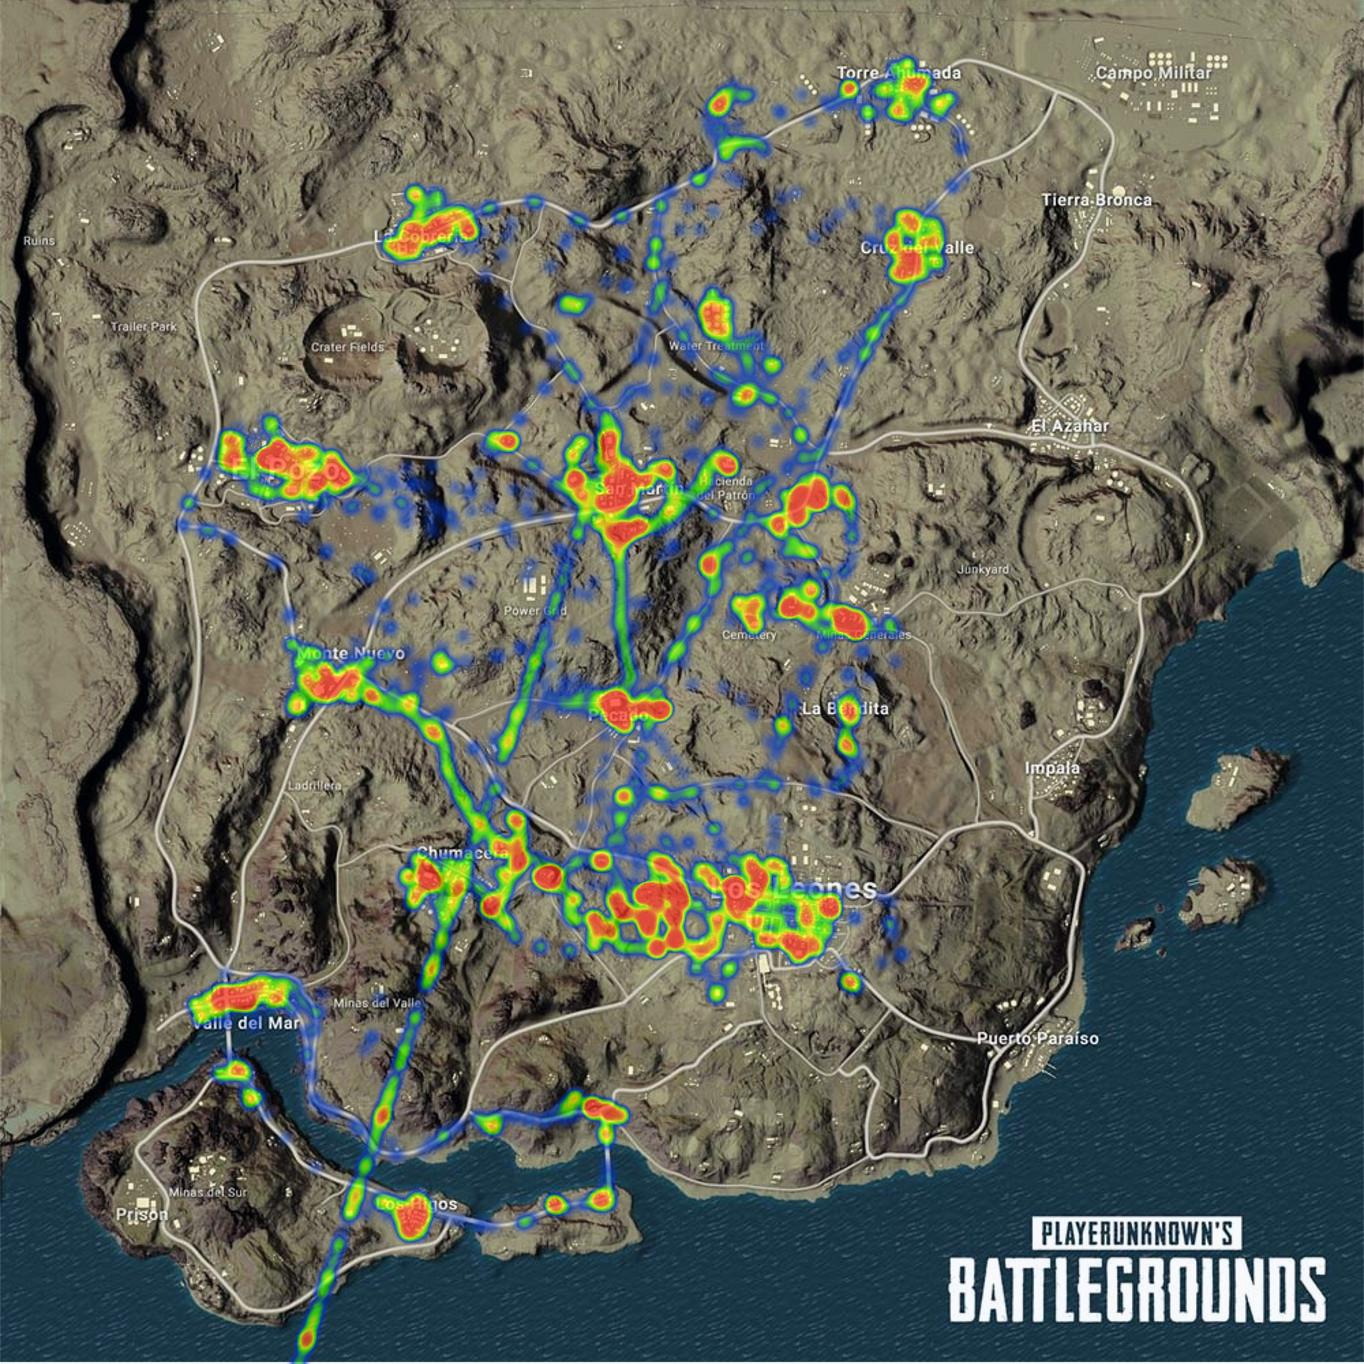
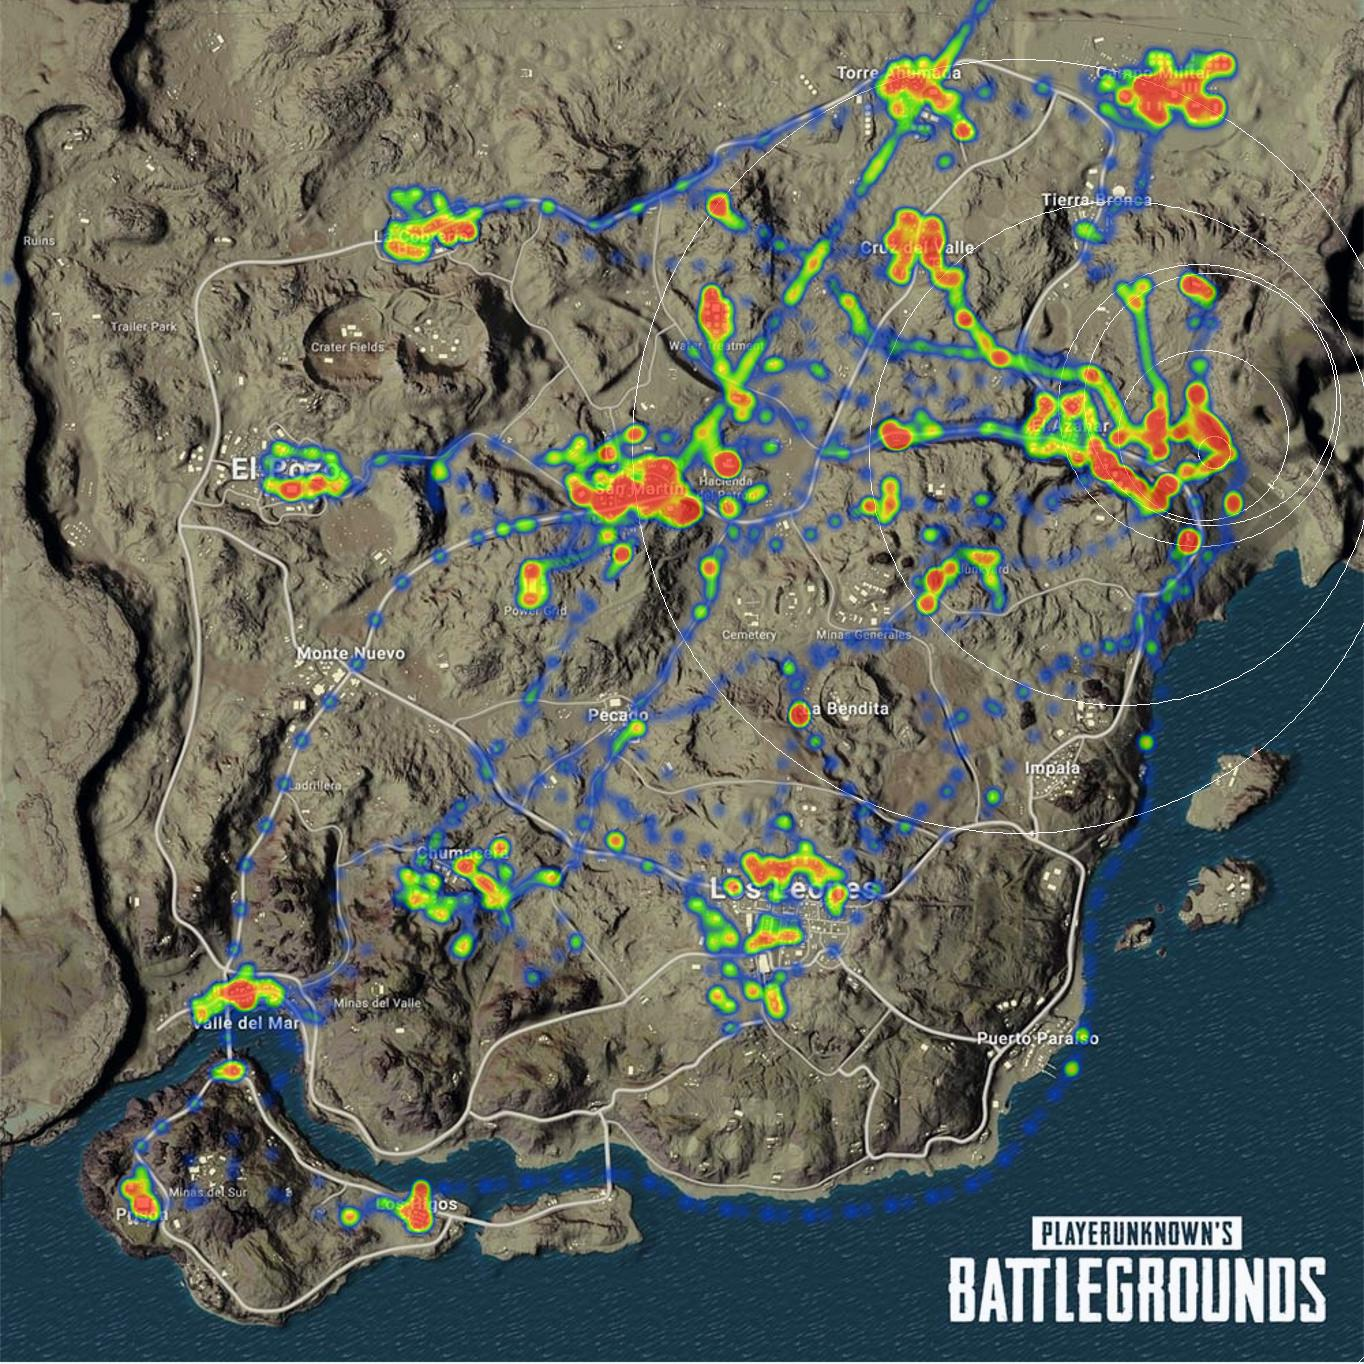
added circles drawing

diff --git a/pubgheatmap.py b/pubgheatmap.py
@@ -1,6 +1,6 @@
 from pubg_python import PUBG, Shard
 from heatmappy import Heatmapper
-from PIL import Image
+from PIL import Image, ImageDraw
 
 API_KEY = ''
 
@@ -9,8 +9,14 @@ MIRAMAR_MAP_IMG_PATH = 'data/img/miramar_map.jpg'
 
 MAPS_IMGS_PATHS = {'Desert_Main' : MIRAMAR_MAP_IMG_PATH, 'Erangel_Main' : ERANGEL_MAP_IMG_PATH}
 
-def buildHeatMap(pointsList, imgFile_path):
+def buildHeatMap(pointsList, circlesCoordsList, imgFile_path):
     mapimg = Image.open(imgFile_path)
+
+    draw = ImageDraw.Draw(mapimg)
+    for coordsAndRadius in circlesCoordsList:
+        draw.ellipse([coordsAndRadius[0][0] - coordsAndRadius[1], coordsAndRadius[0][1] - coordsAndRadius[1],
+                      coordsAndRadius[0][0] + coordsAndRadius[1], coordsAndRadius[0][1] + coordsAndRadius[1]],
+                     outline='white')
 
     heatmapper = Heatmapper(point_diameter=25, point_strength=0.2, opacity=0.7)
     heatmapImg = heatmapper.heatmap_on_img(pointsList, mapimg)
@@ -32,6 +38,28 @@ def getTelemetryMapName(telemetry):
     events = telemetry.events_from_type('LogPlayerPosition')
     return events[0].common.map_name
 
+def getTelemetrySafeZonesLocations(telemetry):
+    gameStatesEvents = telemetry.events_from_type('LogGameStatePeriodic')
+
+    # need to select circles because api sends a lot of trash (intermediate circles)
+    coordsDict = dict()
+    for gs in gameStatesEvents:
+        zoneCoords = [round(gs.game_state.safety_zone_position['x']/600), round(gs.game_state.safety_zone_position['y']/600),
+                      round(gs.game_state.safety_zone_position['z'])]
+
+        if zoneCoords[0] in coordsDict:
+            coordsDict[zoneCoords[0]][0] += 1
+        else:
+            coordsDict[zoneCoords[0]] = [1, zoneCoords, round(gs.game_state.safety_zone_radius/600)]
+
+    locationsAndRadii = []
+    for key in coordsDict.keys():
+        value = coordsDict[key]
+        if value[0] > 3:
+            locationsAndRadii.append((value[1], value[2]))
+
+    return locationsAndRadii
+
 def getMatchHeatmap(match):
     """
     Make a heatmap of players activity of the match.
@@ -46,14 +74,16 @@ def getMatchHeatmap(match):
     mapImgPath = MAPS_IMGS_PATHS[mapName]
 
     playersCoords = getTelemetryPlayersCoords(telemetry)
-    heatmapImg = buildHeatMap(playersCoords, mapImgPath)
+    circlesCoordsAndRadii = getTelemetrySafeZonesLocations(telemetry)
+
+    heatmapImg = buildHeatMap(playersCoords, circlesCoordsAndRadii, mapImgPath)
 
     return heatmapImg
 
 if __name__ == "__main__":
     player_name = 'tetraquark'
-    match_number = 0
-    out_heatmap_file_name = 'pubgheatmap11.jpg'
+    match_number = 2
+    out_heatmap_file_name = 'pubgheatmap58.jpg'
     server = Shard.PC_EU
 
     api = PUBG(API_KEY, server)
@@ -69,5 +99,6 @@ if __name__ == "__main__":
 
     # get match heatmap (PIL image file)
     heatmapImg = getMatchHeatmap(match=match)
+
     # save image to the file
     heatmapImg.save(out_heatmap_file_name)
